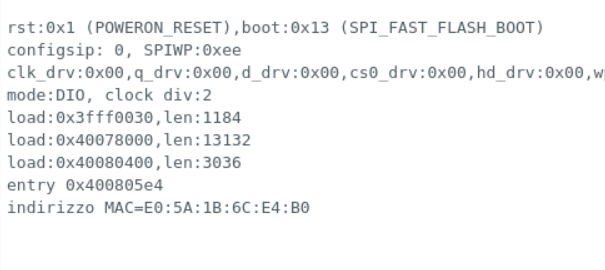
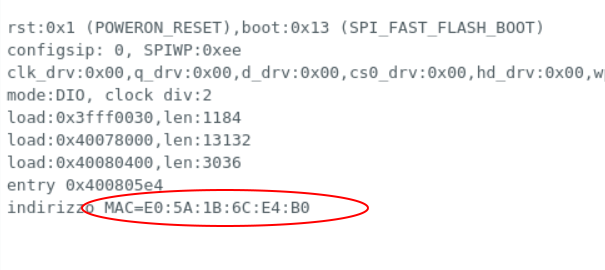
<p style="font-size: 0.8em;">R.123.3.4.2</p>

Changed region(s): [[0.119, 0.6815, 0.6248, 0.8593]]

diff --git a/content/it/blog/123/index.md b/content/it/blog/123/index.md
@@ -94,11 +94,11 @@ lib_deps =
 <br>
 
 ##### L'output del "serial monitor" di Arduino con l'indirizzo MAC della scheda ESP32-CAM:
-<img width="800" class="x figure-img img-fluid lazyload blur-up" src="images/102.png" alt="L'output del serial monitor di Arduino con indirizzo MAC della ESP32-CAM">
+<img style="border: 2px solid #999;" width="800" class="x figure-img img-fluid lazyload blur-up" src="images/102.png" alt="L'output del serial monitor di Arduino con indirizzo MAC della ESP32-CAM">
+<br>
+<br>
 
 > Nella immagine sopra puoi vedere l'indirizzo MAC *E0:5A:1B:6C:E4:B0* che useremo nel programma di trasmissione.
-
-<br>
 
 ## Il programma main.ino per inviare dei dati campione con l'ESP32-CAM
 In questo programma useremo l'indirizzo MAC scoperto in precedenza per selezionare il dispositivo ricevente. Il protocollo mesh di Espressif prevede di usare il sistema degli indirizzi hardware anche quando i dispositivi sono solo due. 
@@ -204,14 +204,14 @@ void loop() {
 }
 ```
 
-<img width="800" class="x figure-img img-fluid lazyload blur-up" src="images/103.png" alt="">
+<img style="border: 2px solid #999;" width="800" class="x figure-img img-fluid lazyload blur-up" src="images/103.png" alt="">
+
 <br>
 <br>
-Nella immagine in alto si vede la sequenza automatica generata dal primo ESP32-CAM e ricevuta dalla seconda ESP32-CAM (619,620,621, etc..).
+
+> Nella immagine in alto si vede la sequenza automatica generata dal primo ESP32-CAM e ricevuta dalla seconda ESP32-CAM (619,620,621, etc..).
 
 ### Conclusione
 Con soli tre brevissimi programmi abbiamo impostato la struttura di funzionamento della rete mesh. Nei prossimi artcoli vedremo come usare questa struttura per realizzare dei compiti utili, con l'utilizzo di 3 o 4 schede ESP32 di modello diverso.
 <br>
-<br>
-<br>
-<p style="font-size: 0.8em;">R.123.3.4.0</p>
+<p style="font-size: 0.8em;">R.123.3.4.1</p>
